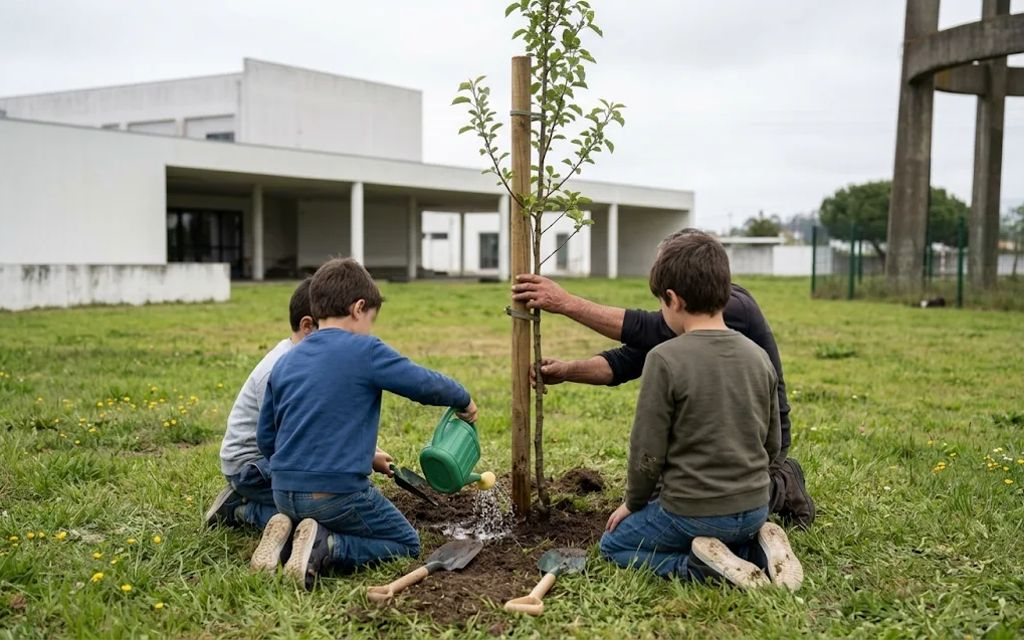
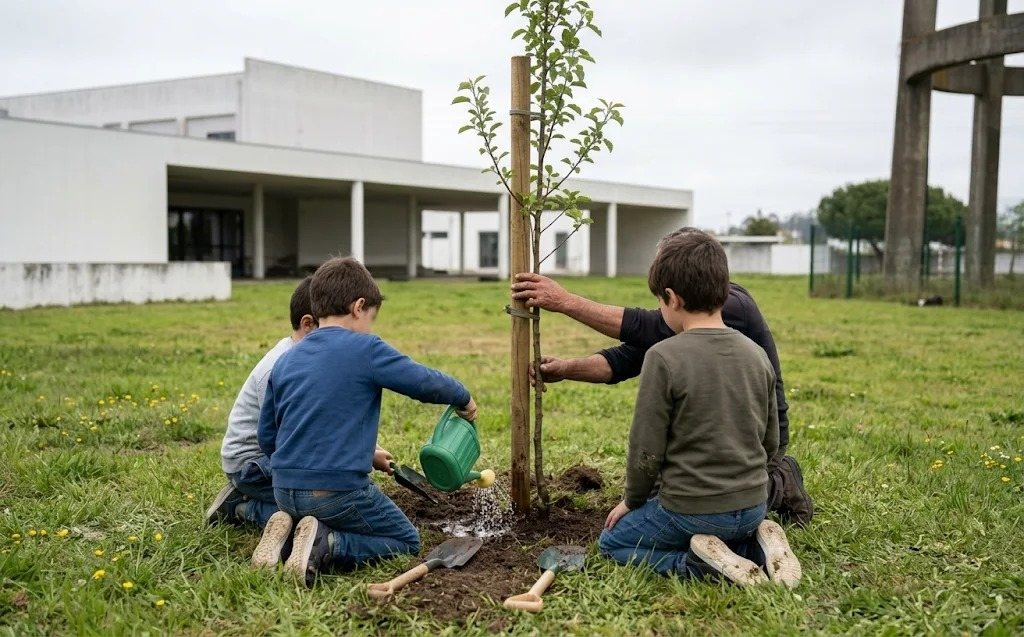
Metas: secção "A seguir" com cartões pequenos (à espera de orçamento); fotos das árvores
Claude-Session: https://claude.ai/code/session_01EBNauRZukXFJv6Q5WDDTTu

diff --git a/js/metas.js b/js/metas.js
@@ -92,6 +92,16 @@ function custos(m) {
   return `<details class="m-custos"><summary>Ver custos</summary><ul>${linhas}</ul></details>`;
 }
 
+// Metas "a seguir": cartões pequenos, sem valores nem botão (16/11).
+function seguinte(m) {
+  const el = document.createElement("article");
+  el.className = "m-cartao m-mini estado-a-seguir";
+  el.id = "meta-" + m.id;
+  el.innerHTML = `${imagem(m)}<div class="m-corpo"><h3>${escapar(m.emoji)} ${escapar(m.titulo)}</h3>
+    <p class="m-linha-estado">🔒 Vem a seguir · ${escapar(m.nota || "à espera de orçamento")}</p></div>`;
+  return el;
+}
+
 // Metas garantidas e feitas: cartão com as fotos de como foi (galeria grande), título e o que se conseguiu.
 function feita(m) {
   const el = document.createElement("article");
@@ -449,6 +459,9 @@ function desenharMetas() {
   fila.forEach((m, i) => { if (!m.proxima && fila[i + 1]) m.proxima = fila[i + 1].id; });
 
   desenharMetas();
+  const seguir = publicas.filter(m => m.estado === "a seguir").sort(porPrio);
+  const sg = document.getElementById("m-seguir");
+  if (sg) { seguir.forEach(m => sg.appendChild(seguinte(m))); document.getElementById("m-seguir-sec").hidden = !seguir.length; galerias(sg); }
   const feitas = publicas.filter(PAGA);
   const el = document.getElementById("m-feitas-lista");
   feitas.forEach(m => el.appendChild(feita(m)));

diff --git a/style.css b/style.css
@@ -1020,3 +1020,11 @@ header.topo .menu { order: 2; margin-left: auto; align-items: center; }
   .menu-mais summary span { display: inline; width: 24px; font-size: 18px; }
 }
 @media (max-width: 959px) { .menu-mais summary { justify-content: flex-start; gap: 8px; } .menu-mais summary .seta { margin-left: auto; } }
+
+/* Metas "a seguir": cartões pequenos (16/11) */
+.metas-seguir { display: grid; grid-template-columns: repeat(auto-fill, minmax(210px, 1fr)); gap: 14px; }
+.m-mini { box-shadow: 2px 2px 0 var(--tinta); border-width: 2px; }
+.m-mini .m-img { aspect-ratio: 16 / 10; }
+.m-mini .m-corpo { padding: 10px 12px 12px; }
+.m-mini h3 { font-size: 16px; margin: 0 0 4px; }
+.m-mini .m-linha-estado { font-size: 13px; color: var(--suave); margin: 0; }

diff --git a/metas.html b/metas.html
@@ -74,6 +74,12 @@
       <div class="metas-grelha" id="m-ativas"><div class="esqueleto cartao"></div><div class="esqueleto cartao"></div><div class="esqueleto cartao"></div></div>
     </section>
 
+    <section aria-labelledby="h-seguir" id="m-seguir-sec" hidden>
+      <h2 id="h-seguir" class="metas-h2">A seguir</h2>
+      <p class="metas-sub">Estas metas vêm a seguir. Estamos à espera do orçamento.</p>
+      <div class="metas-seguir" id="m-seguir"></div>
+    </section>
+
     <section aria-labelledby="h-feitas">
       <h2 id="h-feitas" class="metas-h2">Garantidas e feitas</h2>
       <p class="metas-sub">O teu dinheiro já fez isto. Obrigado! 💛</p>
